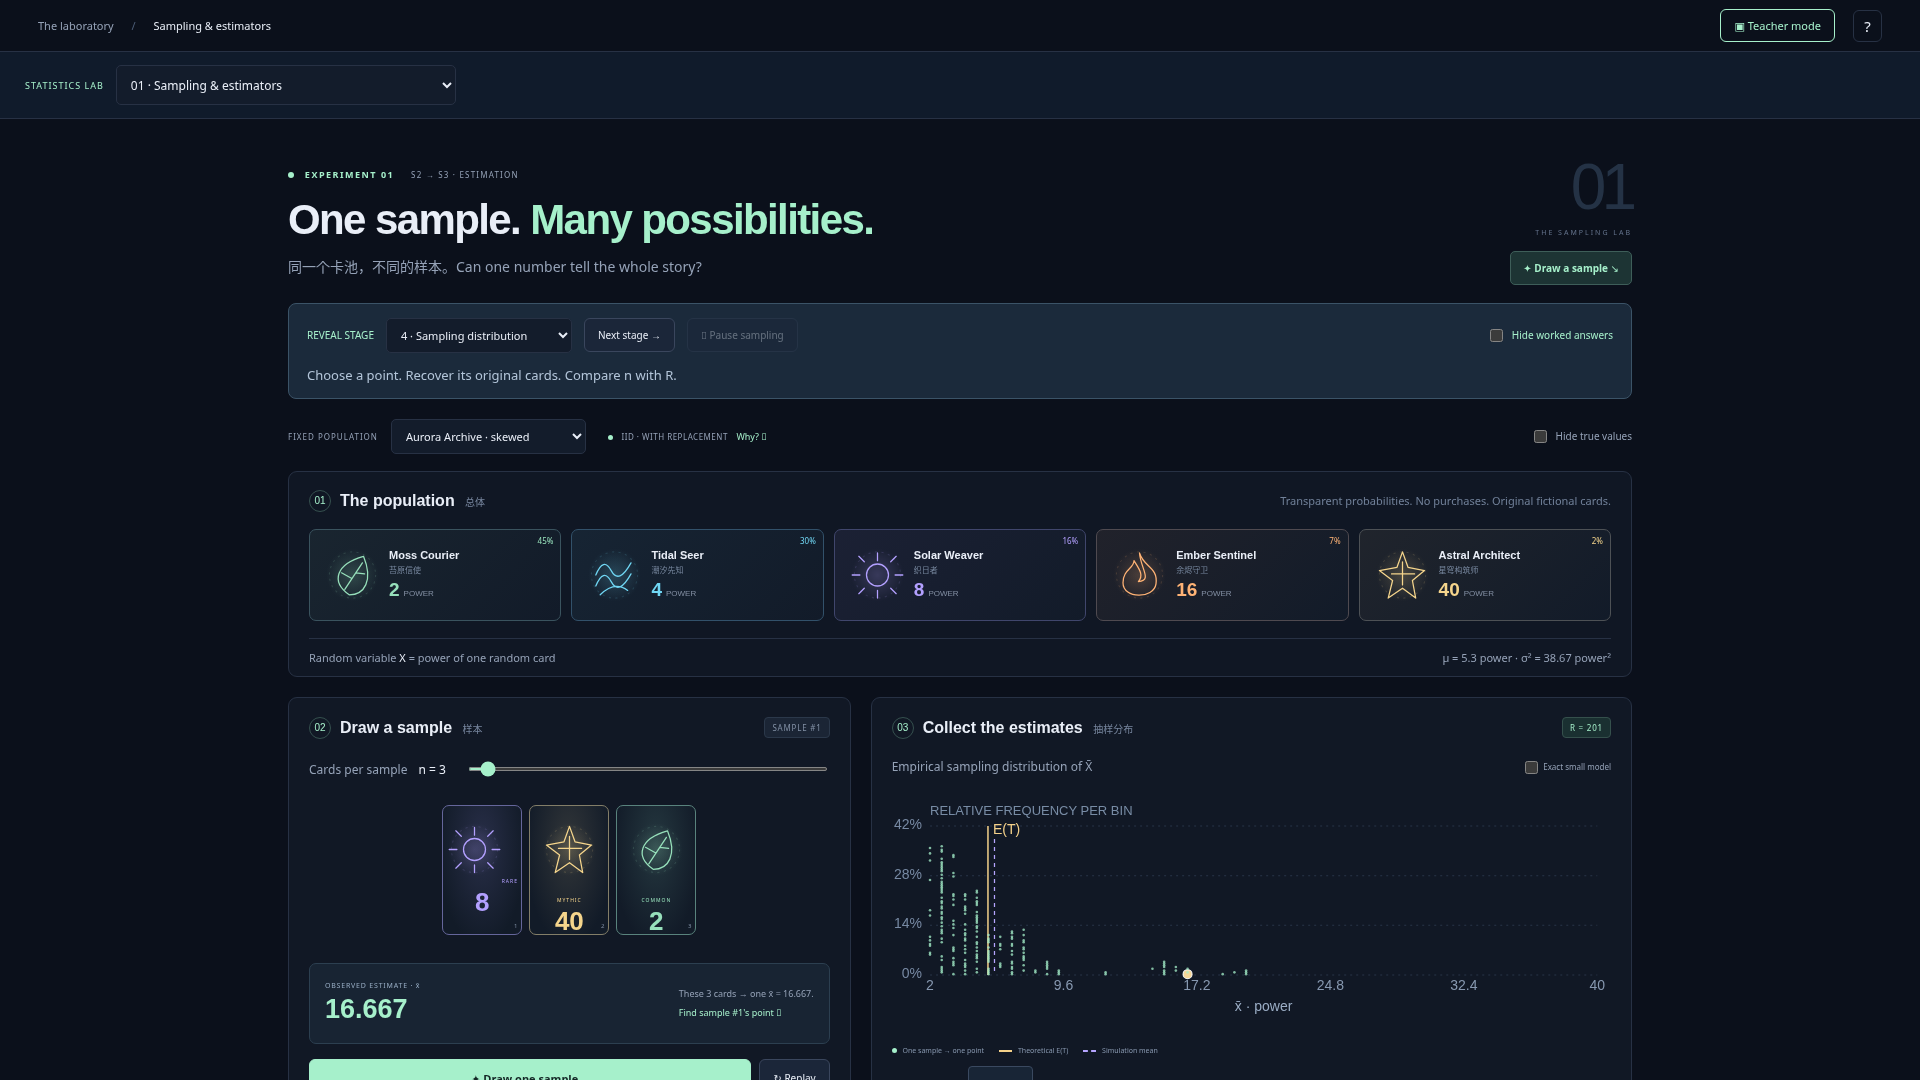
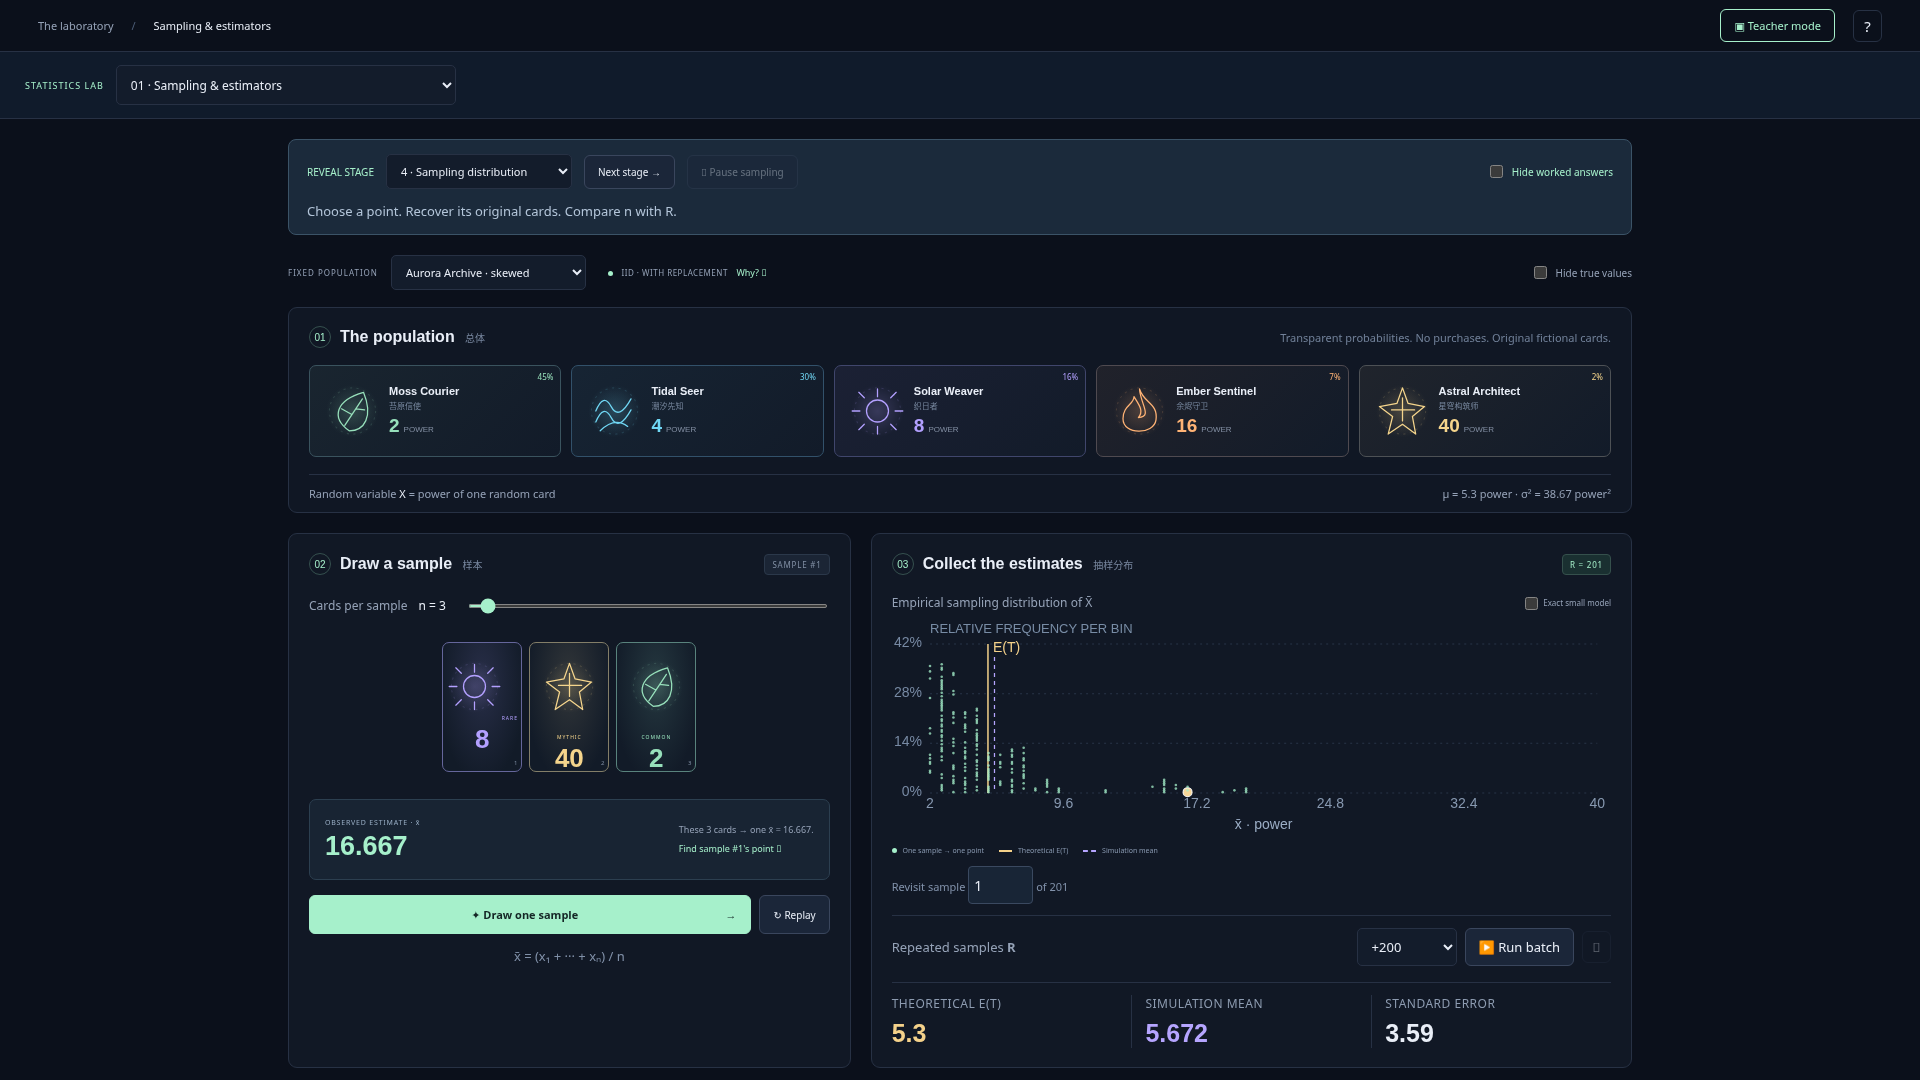
fix: verify projection metrics fit with compact chart spacing

diff --git a/statverse-lab/style.css b/statverse-lab/style.css
@@ -2417,3 +2417,4 @@ dialog > a {
   }
 }
 .teacher main{padding-top:20px}.teacher[data-teacher-stage="sample"] .intro,.teacher[data-teacher-stage="distribution"] .intro,.teacher[data-teacher-stage="explain"] .intro{display:none}
+.teacher[data-teacher-stage="distribution"] .chart{height:224px}

diff --git a/statverse-lab/docs/REVIEW-LOOP.md b/statverse-lab/docs/REVIEW-LOOP.md
@@ -56,4 +56,4 @@ Additional developer regression fixes during checkpoint2: CI selector blur could
 
 No independent checkpoint2 scores or real-student outcomes have been assigned. Developer browser evidence is evidence/browser-stage2-results.json; original11 flows were also rerun. The parent can pin the code commit enclosing this update for the next independent review.
 
-Projection follow-up: actual1920×1080 Distribution-stage screenshot initially put the bottom metrics below the viewport. Focus stages now omit the overview intro, retain the lab selector/model/teacher controls, and reduce top padding; Explain focuses the distribution and explanation. A new actual browser assertion confirms the core metric bounds fit inside1080px (evidence/stage2-projection-check.json). This is a measured viewport layout fix, not physical classroom validation.
+Projection follow-up: actual1920×1080 Distribution-stage screenshot initially put the bottom metrics below the viewport. Focus stages now omit the overview intro, retain the lab selector/model/teacher controls, and reduce top padding; Explain focuses the distribution and explanation. The first layout assertion still found a4px overflow (metrics bottom1084px); chart padding was reduced further and the same actual browser assertion was rerun, with final bounds recorded in evidence/stage2-projection-check.json. This is a measured viewport layout fix, not physical classroom validation.
